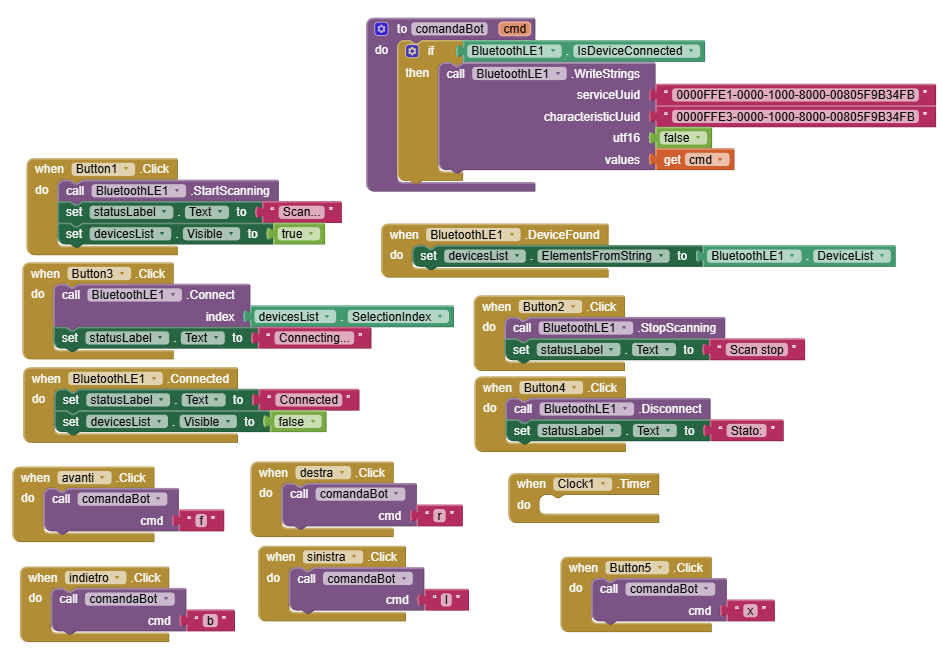
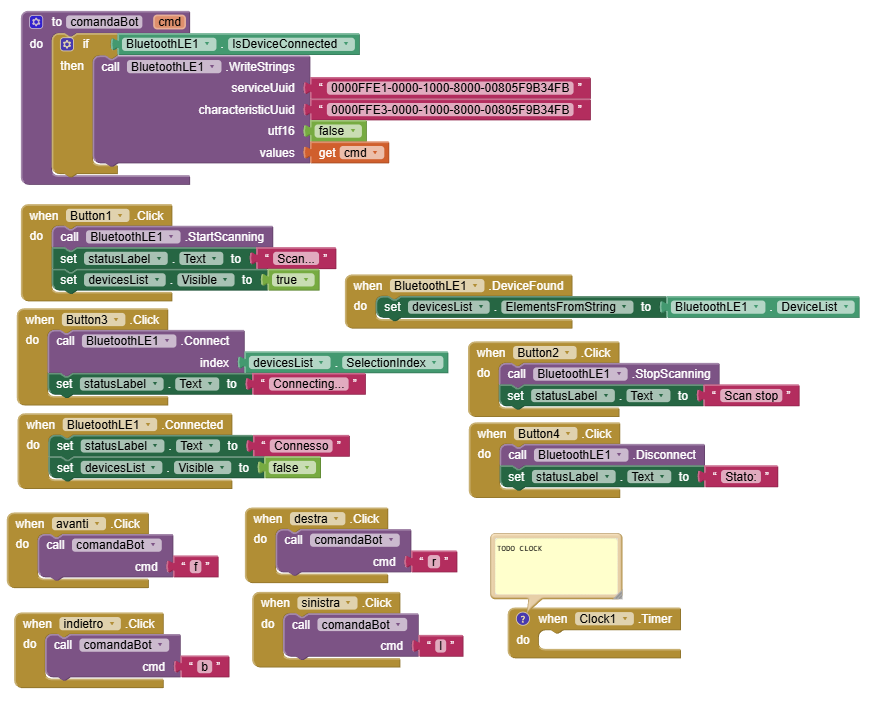
Added Bluetooth + updated app

diff --git a/bot.cpp b/bot.cpp
@@ -1,24 +1,16 @@
 #include <MeMCore.h>
 #include <Arduino.h>
-#include <Wire.h>
 #include <SoftwareSerial.h>
-#include "src/bluetoothhc.h"
-#include "src/HC06.h"
 
-BluetoothClassHC bluetoothhc;
-
+SoftwareSerial bluetoothSerial(0, 1);
 MeRGBLed rgbled_7(7, 2);
 
 MeDCMotor motor_9(9);
 MeDCMotor motor_10(10);
 
-String carattere = "";
-int speed = 150;
-
 void move(int direction, int speed) {
   int leftSpeed = 0;
   int rightSpeed = 0;
-
   if(direction == 1) {
     leftSpeed = speed;
     rightSpeed = speed;
@@ -37,52 +29,56 @@ void move(int direction, int speed) {
 }
 
 void setup() {
-  Serial.begin(9600); 
+  Serial.begin(115200);
+  bluetoothSerial.begin(115200);
   
-  bluetoothhc.inithc(0,1,"BTSlave",1234);
-
   rgbled_7.fillPixelsBak(0, 2, 1);
-  rgbled_7.setColor(0, 51, 0, 255);
+  rgbled_7.setColor(0, 0, 0, 0);
   rgbled_7.show();
 }
 
 void loop() {
-  if (bluetoothhc.dataLineAvailableHc()) {
-    carattere = bluetoothhc.readDataLineHc();
-
-    rgbled_7.setColor(0, 255, 0, 0);
-    rgbled_7.show();
-
-    delay(200);
-
-    rgbled_7.setColor(0, 0, 0, 0);
-    rgbled_7.show();
-
-    Serial.print("Carattere: ");
-    Serial.println(carattere);
+  if (bluetoothSerial.available()) {
+    char receivedChar = bluetoothSerial.read();
     
-    if(carattere == "f") {
-      move(1, speed);
-      delay(3);
+
+    if (receivedChar == '\r' || receivedChar == '\n') {
+      return;
+    }
+
+    Serial.print("Carattere ricevuto: ");
+    Serial.println(receivedChar);
+
+    if (receivedChar == 'f') {
+      rgbled_7.setColor(0, 0, 255, 0);
+      rgbled_7.show();
+
+      move(1, 90 / 100.0 * 255);
+      delay(1000);
       move(1, 0);
-    } else if(carattere == "b") {
-      move(2, speed);
-      delay(3);
+    } else if (receivedChar == 'b') {
+      rgbled_7.setColor(0, 255, 0, 0);
+      rgbled_7.show();
+
+      move(2, 90 / 100.0 * 255);
+      delay(1000);
       move(2, 0);
-    } else if(carattere == "l") {
-      move(3, speed);
-      delay(3);
+    } else if (receivedChar == 'l') {
+      rgbled_7.setColor(0, 255, 0, 0);
+      rgbled_7.show();
+
+      move(3, 80 / 100.0 * 255);
+      delay(500);
       move(3, 0);
-    } else if(carattere == "r") {
-      move(4, speed);
-      delay(3);
+    } else if (receivedChar == 'r') {
+      rgbled_7.setColor(0, 255, 0, 0);
+      rgbled_7.show();
+
+      move(4, 80 / 100.0 * 255);
+      delay(500);
       move(4, 0);
     }
+
+    delay(200);
   }
-
-  _loop();
-}
-
-void _loop() {
-  bluetoothhc.bluetoothLoopHc();
 }
